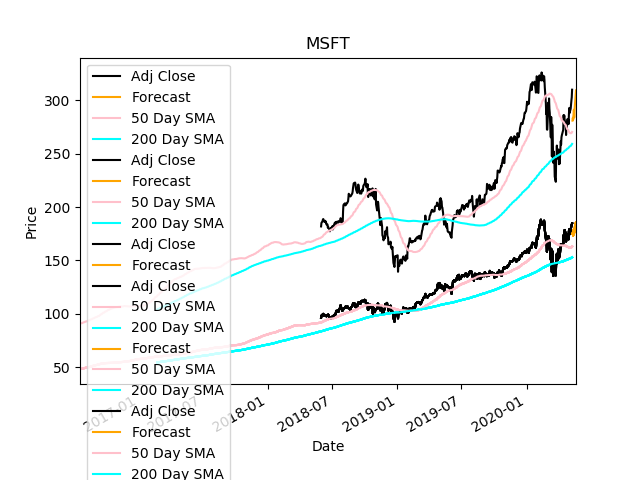
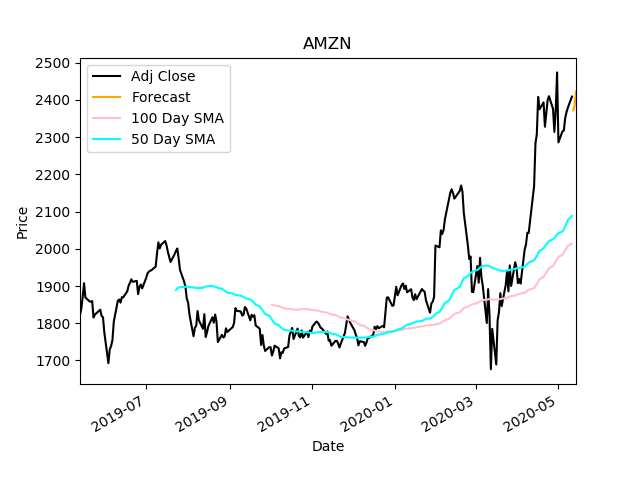
Date Input,Plot Fixes

diff --git a/server/public/templates/submit.html b/server/public/templates/submit.html
@@ -13,15 +13,23 @@
             <form action="/submit" method="POST" class="data-form" style="width: 200px !important;">
                 <label>Symbol</label>
 
-                <input class="form-control" type="text" id="ticker" value="{{ ticker }}" name="ticker">
+                <input class="form-control" type="text" id="ticker" placeholder="AMZN" value="{{ ticker }}" name="ticker">
+
+                <label>From Date</label>
+
+                <input class="form-control" type="text" id="from_date" placeholder="5/11/19" value="{{ from_date }}"name="from_date">
+                <br>
+                <label>To Date</label>
+                
+                <input class="form-control" type="text" id="to_date" placeholder="5/11/20" value="{{ to_date }}" name="to_date">
               
                 <label>Moving Avg 1</label>
 
-                <input class="form-control" type="text" id="ma1" value="50" name="ma1">
+                <input class="form-control" type="text" id="ma1" placeholder="50" value="{{ ma1 }}" name="ma1">
                
                 <label>Moving Avg 2</label>
 
-                <input class="form-control" type="text" id="ma2" value="200" name="ma2">
+                <input class="form-control" type="text" id="ma2" placeholder="100" value="{{ ma2 }}" name="ma2">
                 <button type="submit" class="button">Set</button>
             </form>
         </div>
@@ -55,7 +63,7 @@
             </tr>
             <tr>
                 <td>Last MA Crossover: </td>
-                <td>UP</td>
+                <td>{{ crossover }}</td>
             </tr>
         </table>
     </div>

diff --git a/server/public/analyze.py b/server/public/analyze.py
@@ -21,177 +21,3 @@ from sklearn.pipeline import make_pipeline
 from sklearn.model_selection import train_test_split
 
 
-def calcDate(interval):
-    
-    if interval == 'month':
-        time = 30
-    elif interval == 'year':
-        time = 365
-    elif interval == 'fiveYear':
-        time = 1825
-    tod = datetime.datetime.now()
-    d = datetime.timedelta(days = time)
-    a = tod - d
-    selectedDate = a.date().isoformat()
-#     print(selectedDate)
-    return selectedDate
-
-## Loading Yahoo Finance data set form 2016
-# Get start and end dates 
-
-# times = 1 year 6 month 3 month  
-
-# start_date = datetime.datetime(2019, 5, 9)
-start_date = calcDate('year')
-## Select today's date as end date
-end_date = datetime.datetime.now().date().isoformat() 
-print(end_date)
-stocks_df = web.DataReader('AAPL', 'yahoo', start_date, end_date)
-
-# Displaying letest 5 records
-# stocks_df.tail()
-
-## Getting Final Closing price
-closing_price_df= stocks_df['Adj Close']
-
-closing_price_df.index = pd.to_datetime(closing_price_df.index)
-
-## Calculate 50 day Moving Average
-ma_1= closing_price_df.rolling(window=50).mean()
-
-ma_1.index = pd.to_datetime(ma_1.index)
-
-
-ma_1.dropna(inplace=True)
-
-
-ma_2= closing_price_df.rolling(window=200).mean()
-
-ma_2.index = pd.to_datetime(ma_2.index)
-
-ma_2.dropna(inplace=True)
-
-
-
-
-#The size for our chart:
-plt.figure(figsize = (12,6))
-#Plotting price and SMA lines:
-plt.plot(closing_price_df, label='Adj Closing Price', linewidth = 2)
-plt.plot(ma_1, label='50 Day SMA', linewidth = 1.5)
-plt.plot(ma_2, label='200 Day SMA', linewidth = 1.5)
-#Adding title and labeles on the axes, making legend visible:
-plt.xlabel('Date')
-plt.ylabel('Adjusted Closing Price ($)')
-plt.title('Simple Moving Average')
-plt.legend()
-plt.show()
-
-## Analysing Multiple Stocks
-tickers =['AMZN', 'GOOG', 'IBM', 'MSFT']
-comp_stocks_df = web.DataReader(tickers,'yahoo',start_date,end_date)['Adj Close']
-# comp_stocks_df.head()
-
-retscomp =comp_stocks_df.pct_change()
-corr = retscomp.corr()
-# corr.head()
-
-plt.scatter(retscomp.AMZN, retscomp.MSFT)
-plt.xlabel("Returns MSFT")
-plt.ylabel("Returns AMZN")
-
-plt.title('Scatter Plot of AMZN and MSFT')
-plt.legend()
-plt.show()
-
-
-plt.imshow(corr, cmap='hot', interpolation='none')
-plt.colorbar()
-plt.xticks(range(len(corr)), corr.columns)
-plt.yticks(range(len(corr)), corr.columns);
-
-
-plt.scatter(retscomp.mean(), retscomp.std())
-plt.xlabel('Expected returns')
-plt.ylabel('Risk')
-for label, x, y in zip(retscomp.columns, retscomp.mean(), retscomp.std()):
-    plt.annotate(
-        label, 
-        xy = (x, y), xytext = (20, -20),
-        textcoords = 'offset points', ha = 'right', va = 'bottom',
-        bbox = dict(boxstyle = 'round,pad=0.5', fc = 'yellow', alpha = 0.5),
-        arrowprops = dict(arrowstyle = '->', connectionstyle = 'arc3,rad=0'))
-
-
-#high low percentage 
-dfreg = stocks_df.loc[:,['Adj Close','Volume']]
-dfreg['HL_PCT'] = (stocks_df['High'] - stocks_df['Low']) / stocks_df['Close'] *100.0
-#percentage change 
-dfreg['PCT_change'] = (stocks_df['Close'] - stocks_df['Open']) / stocks_df['Open']  * 100.0
-dfreg
-
-
-#drop missing value 
-dfreg.fillna(value=99999, inplace = True)
-forecast_out = int(math.ceil(0.01*len(dfreg)))
-
-forecast_col = 'Adj Close'
-dfreg['label'] = dfreg[forecast_col].shift(-forecast_out)
-X = np.array(dfreg.drop(['label'], 1))
-
-#linear regression
-#X = preprocessing.scale(X)
-
-#train for model generation and evaluation 
-X_lately = X[-forecast_out:]
-X = X[:-forecast_out]
-
-y = np.array(dfreg['label'])
-y = y[:-forecast_out]
-
-
-X_train, X_test, y_train, y_test = train_test_split(X, y, test_size=0.33, random_state=42)
-#linear regression
-clfreg = LinearRegression(n_jobs=-1)
-clfreg.fit(X_train, y_train)
-#quadratic regression
-clfpoly2 = make_pipeline(PolynomialFeatures(2), Ridge())
-clfpoly2.fit(X_train, y_train)
-
-clfpoly3 = make_pipeline(PolynomialFeatures(3), Ridge())
-clfpoly3.fit(X_train, y_train)
-
-
-#KNN Regression 
-clfknn = KNeighborsRegressor(n_neighbors=2)
-clfknn.fit(X_train, y_train)
-
-
-#evaluation 
-conf_reg = clfreg.score(X_test, y_test)
-confpoly2 = clfpoly2.score(X_test, y_test)
-confpoly3 = clfpoly3.score(X_test, y_test)
-confidenceknn = clfknn.score(X_test, y_test)
-# hmmmm
-confidenceknn
-
-forecast_set = clfreg.predict(X_lately)
-dfreg['Forecast'] = np.nan
-forecast_set
-
-
-#plotting prediciton 
-last_date = dfreg.iloc[-1].name
-last_unix = last_date
-next_unix = last_unix + datetime.timedelta(days=1)
-
-for i in forecast_set:
-    next_date = next_unix
-    next_unix += datetime.timedelta(days=1)
-    dfreg.loc[next_date] = [np.nan for _ in range(len(dfreg.columns)-1)]+[i]
-dfreg['Adj Close'].tail(500).plot()
-dfreg['Forecast'].tail(500).plot()
-plt.legend(loc=4)
-plt.xlabel('Date')
-plt.ylabel('Price')
-plt.show()

diff --git a/server/public/predict.py b/server/public/predict.py
@@ -19,14 +19,23 @@ from sklearn.preprocessing import PolynomialFeatures
 from sklearn.pipeline import make_pipeline
 from sklearn.model_selection import train_test_split
 
+def parseDate(date):
+    format_str = '%m/%d/%y' # The format
+    datetime_obj = datetime.datetime.strptime(date, format_str).date().isoformat()
+    print(datetime_obj)
+    return datetime_obj
 
-def forecast(ma1,ma2,ticker):
 
-    ## Loading Yahoo Finance data set form 2016
-    # Get start and end dates 
-    start_date = datetime.datetime(2016, 5, 10)
-    ## Select today's date as end date
-    end_date = datetime.datetime.now().date().isoformat() 
+
+
+
+def forecast(ma1,ma2,ticker,from_date,to_date):
+    plt.clf()
+  
+    # start_date = datetime.datetime(2016, 5, 10)
+    # end_date = datetime.datetime.now().date().isoformat()
+    start_date = parseDate(from_date)
+    end_date = parseDate(to_date) 
 
     stocks_df = web.DataReader(ticker, 'yahoo', start_date, end_date)
 
@@ -47,6 +56,35 @@ def forecast(ma1,ma2,ticker):
     ma_2 = closing_price_df.rolling(window=ma2).mean()
     ma_2.index = pd.to_datetime(ma_2.index)
     ma_2.dropna(inplace=True)
+
+    # mas=[ma_1.tail(1).squeeze(),ma_2.tail(1).squeeze()]
+    # def mac(smas):
+    # #outputs
+    #     sma1 = smas[0]
+    #     sma2 = smas[1]
+    #     # print(max(ma1,ma2))
+    #     if ma1 != ma2:
+    #         maps = {
+    #             ma1:smas[0],
+    #             ma2:smas[1]
+    #         }
+    #         if ma1 < ma2:
+    #             # cross up
+    #             if maps[ma1] > maps[ma2]:
+    # #                 print('cross up')
+    #                 return 'Up'
+    #             else:
+    #                 return 'Down'
+    # #                 print('cross down')
+    #         elif ma2 > ma1:
+    #             if maps[ma2] < maps[ma1]:
+    #                 return 'Up'
+    #             else: 
+    #                 return 'Down'
+                    
+    #         else:
+    #             return 'Undetermined'
+    # crossover = mac(mas)
 
 
 
@@ -116,6 +154,8 @@ def forecast(ma1,ma2,ticker):
 
     dfreg['Adj Close'].tail(500).plot(color='black')
     dfreg['Forecast'].tail(500).plot(color='orange',label='Forecast')
+
+
 
     
     plt.title(ticker)

diff --git a/server/public/plots.py b/server/public/plots.py
@@ -1,0 +1,64 @@
+# Importing dependencies
+import math 
+import numpy as np
+import pandas as pd
+import datetime
+from pandas import Series, DataFrame
+## Note: Install pandas_datareader
+## pip install pandas-datareader
+import pandas_datareader.data as web
+import matplotlib as mpl
+import matplotlib.pyplot as plt
+from matplotlib import style
+
+from sklearn.linear_model import LinearRegression
+from sklearn.neighbors import KNeighborsRegressor
+
+from sklearn.linear_model import Ridge
+from sklearn.preprocessing import PolynomialFeatures
+from sklearn.pipeline import make_pipeline
+from sklearn.model_selection import train_test_split
+
+## Loading Yahoo Finance data set form 2016
+# Get start and end dates 
+start_date = datetime.datetime(2016, 1, 1)
+## Select today's date as end date
+end_date = datetime.datetime.now().date().isoformat() 
+
+stocks_df = web.DataReader('FB', 'yahoo', start_date, end_date)
+
+# Displaying letest 5 records
+stocks_df.tail()
+
+## Getting Final Closing price
+closing_price_df= stocks_df['Adj Close']
+
+closing_price_df.index = pd.to_datetime(closing_price_df.index)
+
+closing_price_df.tail()
+
+closing_price_df.head()
+
+## Calculate 50 day Moving Average
+ma_50day= closing_price_df.rolling(window=50).mean()
+
+ma_50day.index = pd.to_datetime(ma_50day.index)
+
+## Removing NULL Coulumns
+ma_50day.dropna(inplace=True)
+ma_50day.head()
+
+ma_50day.head()
+
+## Calculate 200 day Moving Average
+ma_200day= closing_price_df.rolling(window=200).mean()
+
+ma_200day.index = pd.to_datetime(ma_200day.index)
+
+## Removing NULL Coulumns
+ma_200day.dropna(inplace=True)
+ma_200day.head()
+
+rets = closing_price_df / closing_price_df.shift(1) - 1
+rets.plot(label='return')
+plt.show()

diff --git a/server/public/app.py b/server/public/app.py
@@ -42,11 +42,14 @@ def submit():
         ticker = request.form['ticker']
         ma1 = int(request.form['ma1'])
         ma2 = int(request.form['ma2'])
-        
+        from_date = request.form['from_date']
+        to_date = request.form['to_date']
+        crossover = ''
+
         # Parameters can now be passed through for calculations
-        forecast(ma1,ma2,ticker)
+        forecast(ma1,ma2,ticker,from_date,to_date)
         img = './static/predict.png'
-        return render_template("submit.html",ma1=ma1,ma2=ma2,ticker=ticker,img=img)   
+        return render_template("submit.html",from_date=from_date,to_date=to_date,ma1=ma1,ma2=ma2,ticker=ticker,img=img,crossover=crossover)   
     else:
         return render_template("submit.html")
 
